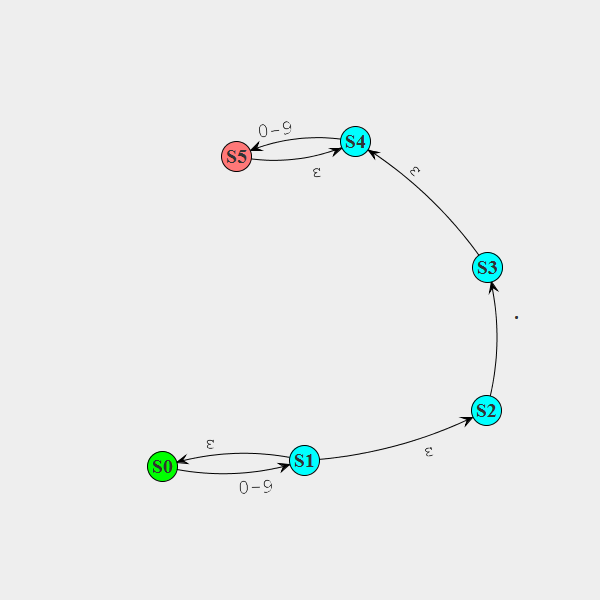
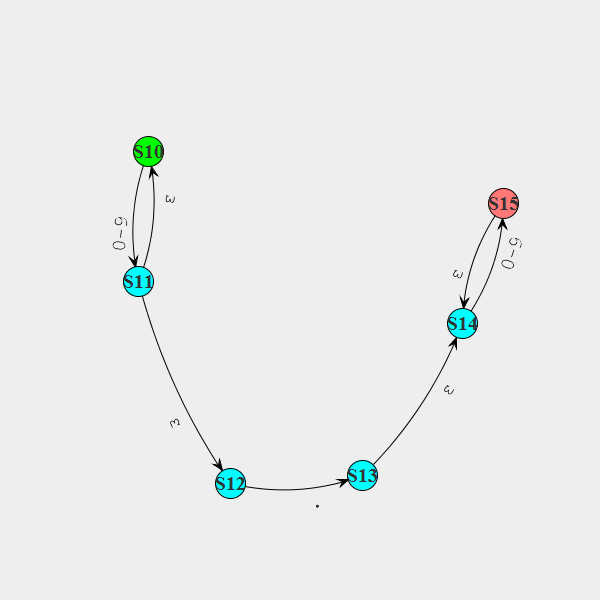
Merging into big NFAs works/to-be-tested

diff --git a/Source/ScannerGenerator.java b/Source/ScannerGenerator.java
@@ -15,6 +15,7 @@ import java.io.File;
 import java.io.FileReader;
 import java.io.IOException;
 import java.sql.Time;
+import java.util.ArrayList;
 import java.util.Arrays;
 import java.util.HashMap;
 import java.util.HashSet;
@@ -73,9 +74,11 @@ public class ScannerGenerator {
 		
 		// For each line, generate an NFA
 		// Parse Identifiers
+		ArrayList<NFA> partialNFAs = new ArrayList<NFA>();
+		
 		while( (line = in.readLine()) != null && !line.isEmpty() ) {
 			System.out.println("Parsing Identifier: "+line);
-			parseIdentifier(line,tokens);			
+			partialNFAs.add( parseIdentifier(line,tokens) );
 		}
 
 		
@@ -85,7 +88,13 @@ public class ScannerGenerator {
 		
 		// Merge NFA's into BigNFA
 		System.out.println("Merging NFAs...");
-		// TODO :: Merge NFAs
+		NFA bigNFA = null;
+		for (NFA partialNFA : partialNFAs) {
+			if (bigNFA == null) bigNFA = partialNFA;
+			else bigNFA = NFA.or(bigNFA, partialNFA);
+		}
+		DirectedSparseMultigraph<State, String> dgraph = generateGraph(bigNFA);
+		drawGraph(dgraph, "BIGNFA", "BIGNFA for '"+specFile+"'");
 		System.out.println("Done merging.");
 
 		// Convert BigNFA
@@ -171,7 +180,7 @@ public class ScannerGenerator {
 		}
 	}
 	
-	public static void parseIdentifier(String line, HashMap<String,HashSet<Character>> tokens) throws ParseError {
+	public static NFA parseIdentifier(String line, HashMap<String,HashSet<Character>> tokens) throws ParseError {
 		line.replaceAll("\\ ", "<SPACE>"); // replace '\ ' with '<SPACE>' so split doesn't affect it
 		String name = line.substring( 0, line.indexOf(' ') );;
 		String val = line.substring(line.indexOf(' '), line.length()).replaceAll(" ", ""); // remove all spaces
@@ -188,12 +197,10 @@ public class ScannerGenerator {
 		RecursiveParser rp = new RecursiveParser(val,tokens);
 		NFA partialNFA = rp.getNFA();
 		DirectedSparseMultigraph<State, String> dgraph = generateGraph(partialNFA);
-		System.out.println(dgraph);
-//		System.out.println("Entry: "+partialNFA.entry);
-//		System.out.println("Exit: "+partialNFA.entry);
+//		System.out.println(dgraph);
 		drawGraph(dgraph, name, "Partial NFA '"+name+"', REGEX: "+val  );
-		System.out.println("  Finished Recursive Parse.");
-		
+		System.out.println("  Finished Recursive Parse. (Partial NFA image saved to 'Images/graph"+name+".png'");
+		return partialNFA;
 	}
 	/**
 	 * Draws graph to JFrame for partial NFA 'name' with title 'title'
@@ -243,7 +250,7 @@ public class ScannerGenerator {
 		viz.getRenderer().getVertexLabelRenderer().setPosition(Position.CNTR);
 		Transformer<State,Paint> vertexPaint = new Transformer<State,Paint>() {
 			public Paint transform(State s) {
-				if (s.stateNum ==0) return Color.GREEN;
+				if (s.isStart) return Color.GREEN;
 				return s.isFinal ? new Color(255, 120, 120) : Color.cyan; 
 			}
 		};

diff --git a/Source/NFA.java b/Source/NFA.java
@@ -20,6 +20,8 @@ public class NFA {
 	public NFA(State entry, State exit) {
 		this.entry = entry;
 		this.exit = exit;
+		this.entry.isStart = true;
+		this.exit.isFinal = true;
 	}
 	
 	/**
@@ -31,6 +33,7 @@ public class NFA {
 //		System.out.println("NFA CHAR '"+c+"'");
 		State entry = new State();
 		State exit = new State();
+		entry.isStart = true;
 		exit.isFinal = true;
 		entry.addCharEdge(c, exit);
 		
@@ -46,6 +49,7 @@ public class NFA {
 //		System.out.println("NFA CHARCLASS '"+chars+"'");
 		State entry = new State();
 		State exit = new State();
+		entry.isStart = true;
 		exit.isFinal = true;
 		entry.addSetCharEdges(chars, exit); 
 		
@@ -61,6 +65,7 @@ public class NFA {
 		State exit = new State();
 		
 		entry.addepsilonEdge(exit);
+		entry.isStart = true;
 		exit.isFinal = true;
 		return new NFA(entry, exit);
 		
@@ -100,6 +105,7 @@ public class NFA {
 	public static NFA sequence(NFA first, NFA next) {
 		first.exit.isFinal = false;
 		next.exit.isFinal = true;
+		next.entry.isStart = false;
 		first.exit.addepsilonEdge(next.entry);
 		return new NFA(first.entry, next.exit);
 	}
@@ -113,11 +119,14 @@ public class NFA {
 	public static NFA or(NFA top, NFA bottom) {
 		top.exit.isFinal = false;
 		bottom.exit.isFinal = false;
+		top.entry.isStart = false;
+		bottom.entry.isStart = false;
 		
 		State entry = new State();
 		State exit = new State();
 		
 		exit.isFinal = true;
+		entry.isStart = true;
 		entry.addepsilonEdge(top.entry);
 		entry.addepsilonEdge(bottom.entry);
 		

diff --git a/Source/State.java b/Source/State.java
@@ -7,6 +7,9 @@ public class State implements Comparable<State> {
 	static int stateNumCounter = 0;
 	int stateNum;
 	boolean isFinal;
+	boolean isStart;
+//	static int groupNumCounter = 0;
+//	int groupNum; // iterates on each stateNum reset, Differentiates between States from different partial NFAs but with same stateNum
 	
 	private HashMap<Character,State> charEdges = new HashMap<Character,State>(256);
 	private ArrayList<State> epsEdges = new ArrayList<State>();
@@ -51,6 +54,7 @@ public class State implements Comparable<State> {
 	}
 	public State() {
 		stateNum = stateNumCounter++;
+//		groupNum = groupNumCounter;
 	}
 	
 	@Override
@@ -73,22 +77,26 @@ public class State implements Comparable<State> {
 	
 	public boolean equals(State other) {
 //		System.out.println("Equals sSTATE "+other);
-		return other.stateNum == stateNum;
+		return other.stateNum == stateNum;// && other.groupNum == groupNum;
 	}
 	@Override
 	public int compareTo(State other) {
 //		System.out.println("Compare State: "+other);
+//		if (other.groupNum == groupNum) 
 		return other.stateNum - stateNum;
+//		else
+//			return other.groupNum - groupNum;
 	}
 	
 	@Override
 	public int hashCode() {
-		return stateNum;
+		return stateNum;// + 9997*groupNum;
 	}
 
 	public static void resetNumCounter() {
 		// TODO Auto-generated method stub
 		stateNumCounter = 0;
+//		groupNumCounter++;
 	}
 	
 }

diff --git a/Source/RecursiveParser.java b/Source/RecursiveParser.java
@@ -16,7 +16,7 @@ public class RecursiveParser {
 	public RecursiveParser(String val, HashMap<String, HashSet<Character>> tokens) {
 		this.data = val;
 		this.tokens = tokens;
-		State.resetNumCounter();
+//		State.resetNumCounter();
 	}
 	
 	public NFA getNFA() throws ParseError {
